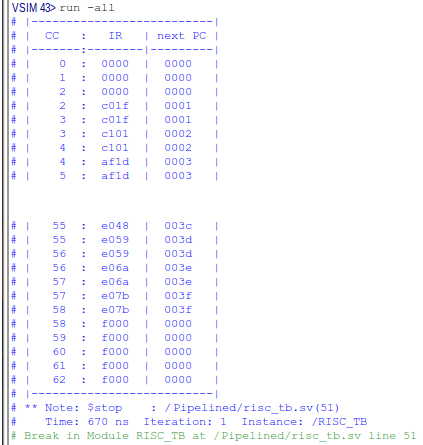
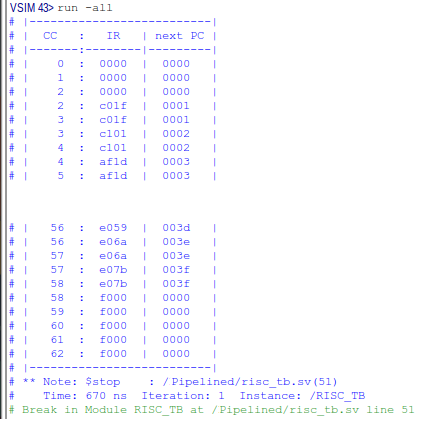
update

Changed region(s): [[0.0, 0.0, 0.9881, 1.0]]

diff --git a/README.md b/README.md
@@ -1,5 +1,6 @@
 # 16-bit-RISC-processor-core
-Non-pipelined and Pipelined version of a 16-bit RISC processor core and comparison of their differences.
+This project's primary motivation and objective is to understand the process, complexity, and challenges involved in pipelining a processor. Initially, a 16-bit RISC microprocessor based on a simplified version of the MIPS architecture was developed utilizing Harvard memory architecture. Afterward, a 4-stage pipeline was introduced, and pipeline registers were added to improve the processor's performance. A data forwarding unit was designed and integrated to address data dependencies.
+
 
 # ISA instruction table
 The ISA of this processor consists of 16 instructions with a 4-bit fixed size operation code. The instruction words are 16-bits long. There are 16, 16-bit wide architected register available.
@@ -24,7 +25,15 @@ The ISA of this processor consists of 16 instructions with a 4-bit fixed size op
 |HaLT                    | HLT      |      F      |     0     |   0     |    0    | suspend operation                    |
 --------------------------------------------------------------------------------------------------------------------------
 
+
 # Comparisons
+## Performance
+A clock cycle counter was utilized to measure the number of cycles taken by both designs to execute identical code until reaching the halt instruction.
+
+|         **Non-pipelined**             |          **Pipelined**           |
+|---------------------------------------|----------------------------------|
+| ![Alt text](Non_Pipelined/RUN_NP.png) | ![Alt text](Pipelined/RUN_P.png) |
+
 ## Timing
 The Pipelined design achivied 238MHz max frequency and the pipelined design achived 250MHz.
 ### for 100MHZ
